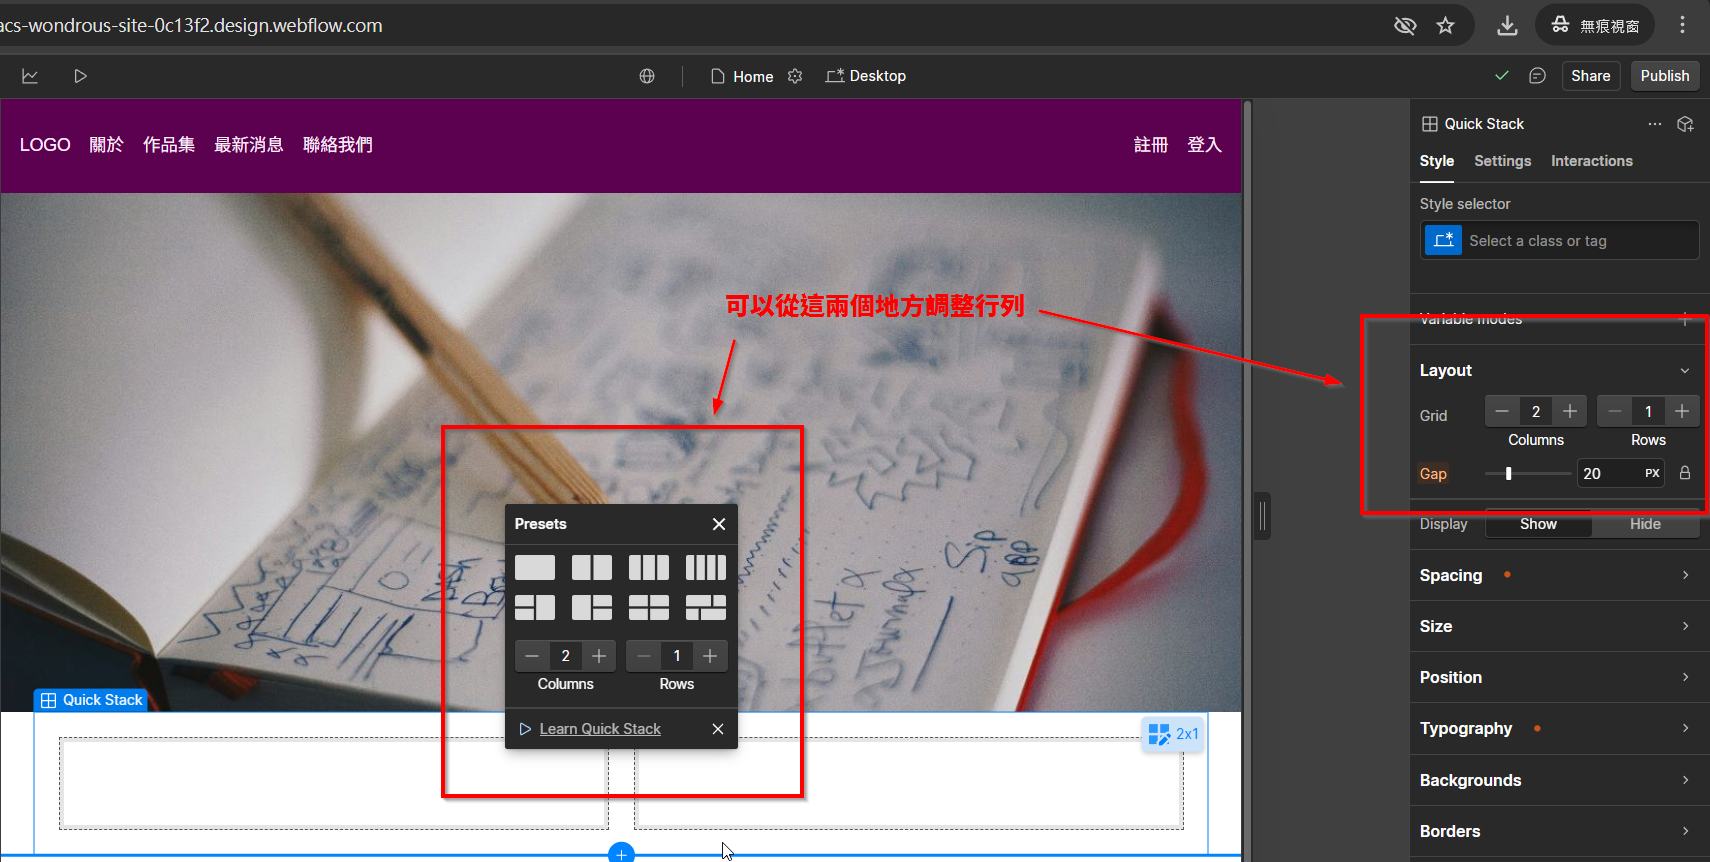
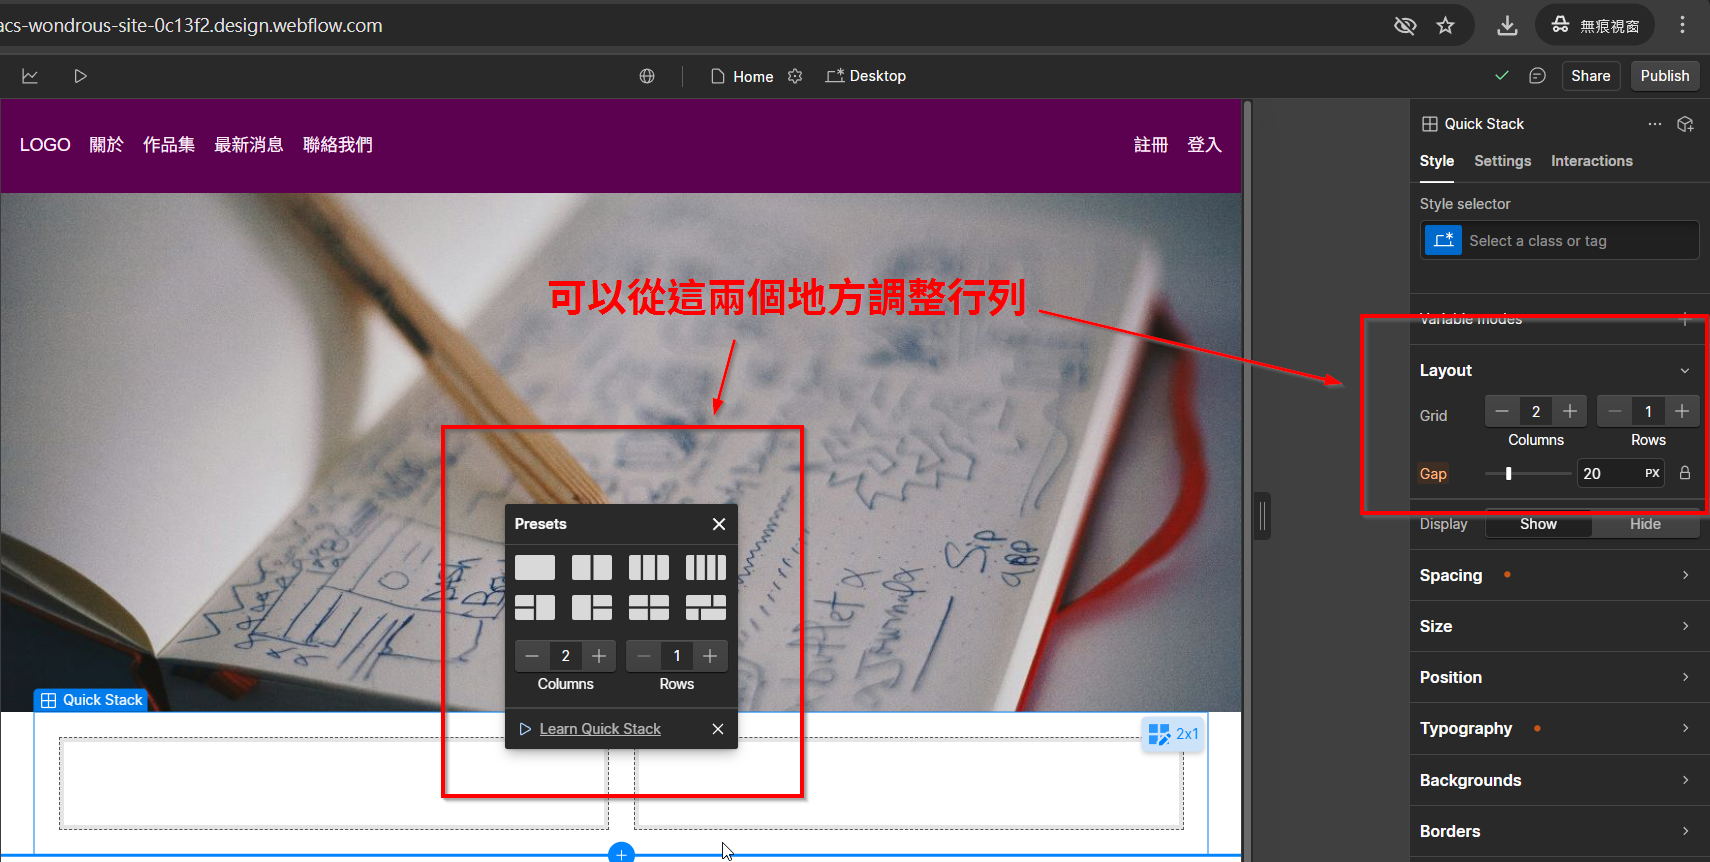
0709

Changed region(s): [[0.3099, 0.3016, 0.6199, 0.3921]]

diff --git a/readme.md b/readme.md
@@ -2,5 +2,18 @@
 
 ## 20250709
 
+新增一組section，裡面包含container與quick stack
+
 ![](/images/2025-07-09%2009_53_33.png)
+
+調整需要的行列數
+
 ![](/images/2025-07-09%2009_57_46.png)
+
+點選要新增內容的cell
+
+![](/images/2025-07-09%2010_27_43.png)
+
+在cell裡面新增heading、paragraph、text link
+
+![](/images/2025-07-09%2010_29_01.png)
